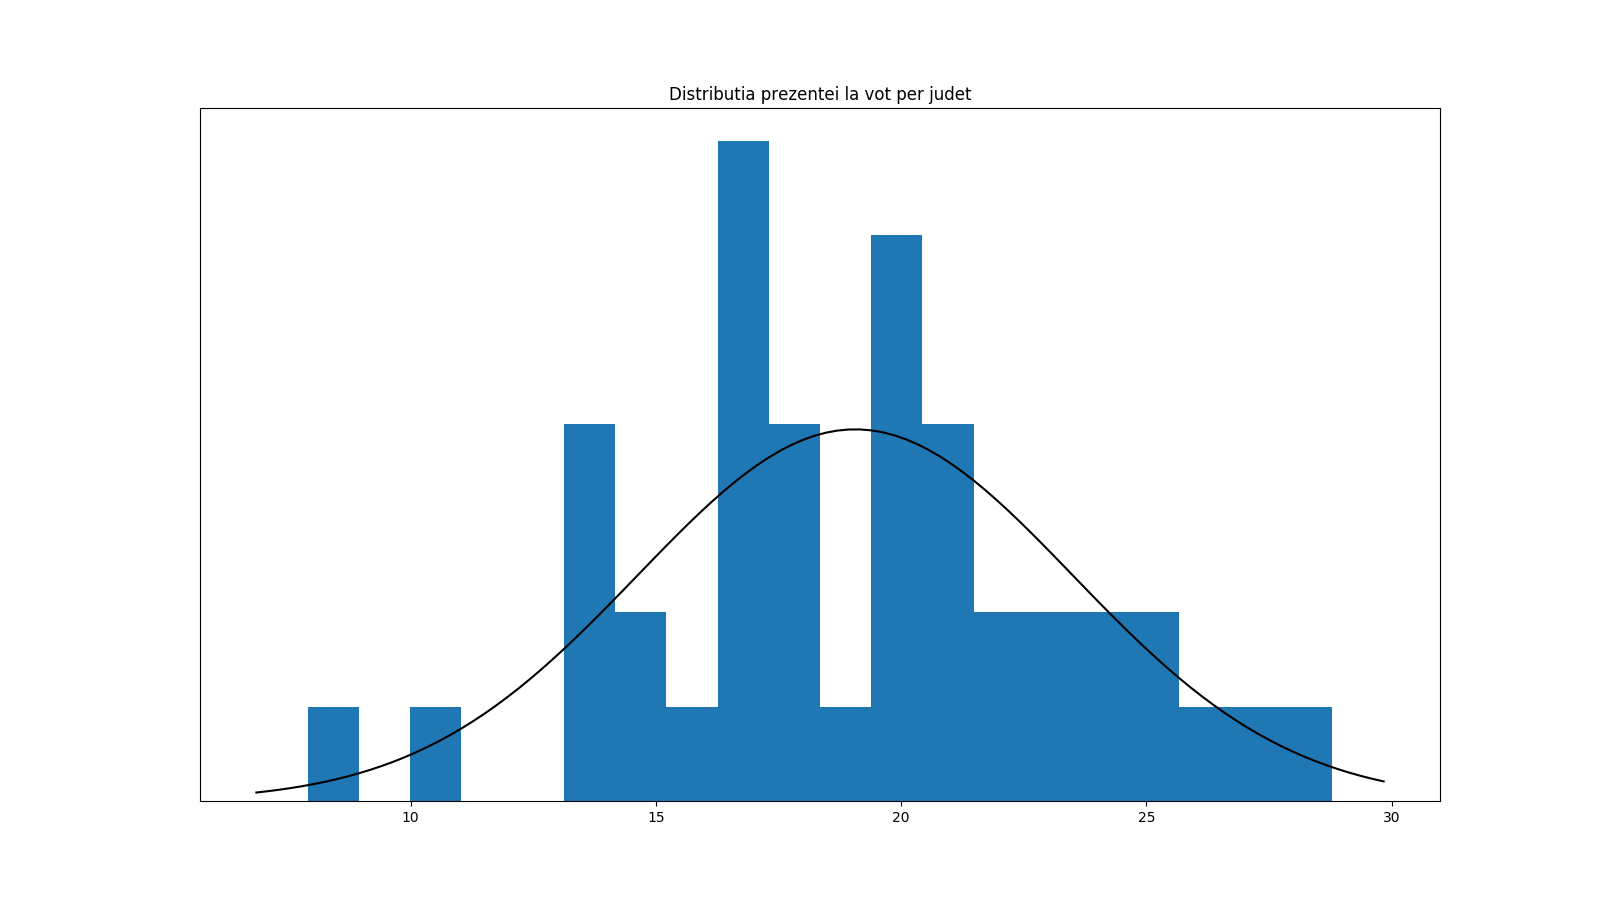
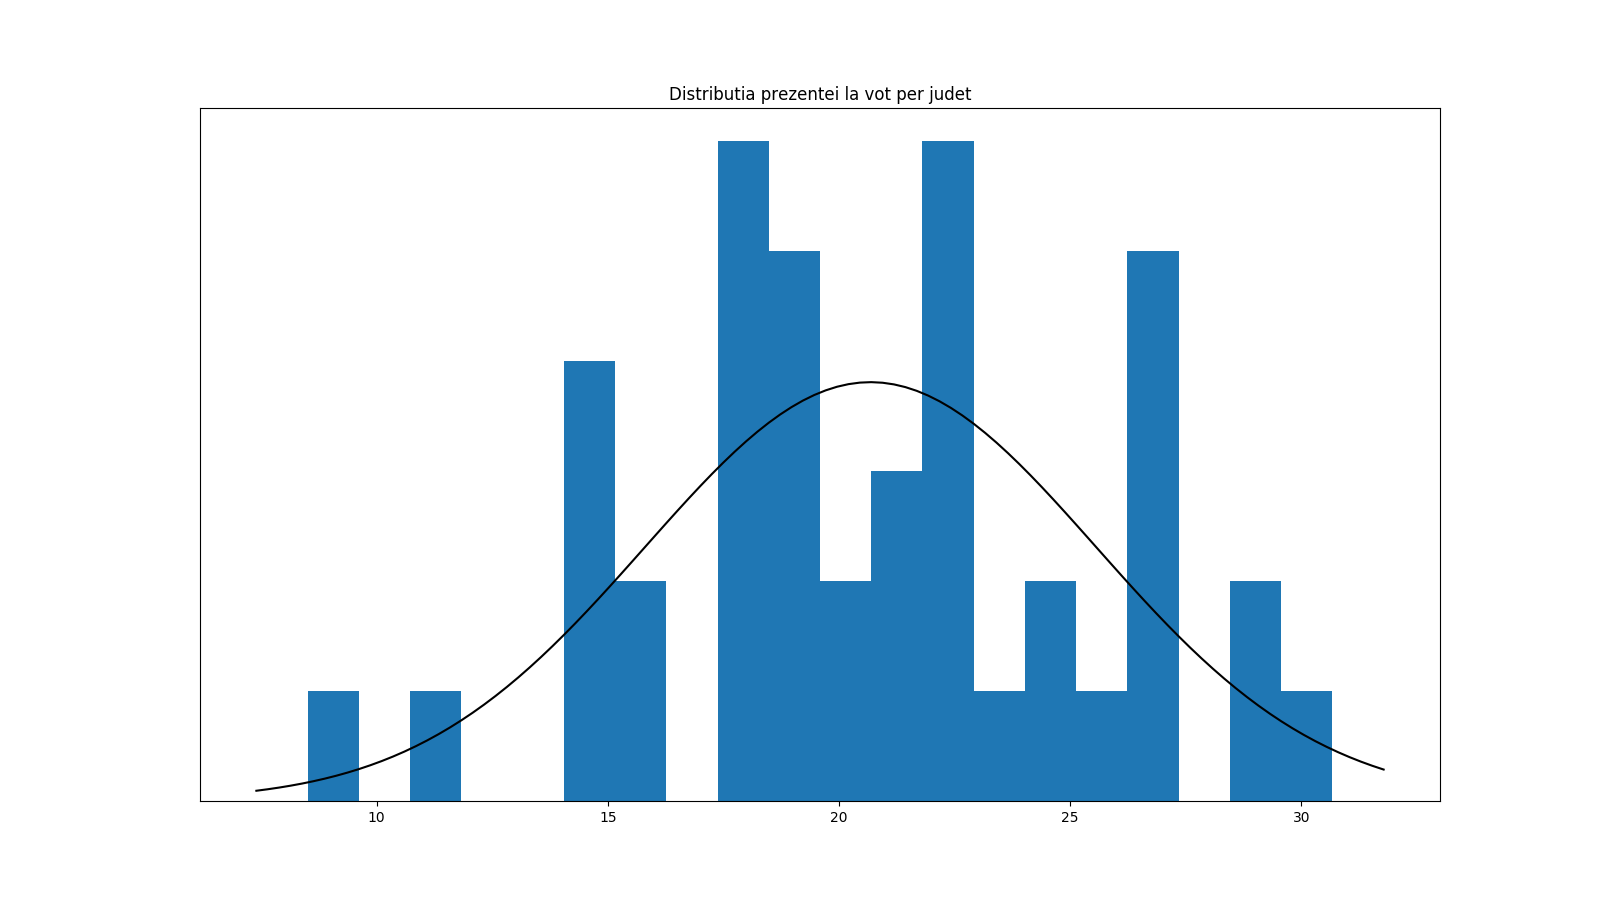
Latest

diff --git a/main.py b/main.py
@@ -6,7 +6,7 @@ import warnings
 warnings.filterwarnings("ignore")
 
 sectii = []
-with open('presence_RO_2018-10-07_19-00.csv') as csvfile:
+with open('presence_RO_2018-10-07_21-00.csv') as csvfile:
     records = csv.DictReader(csvfile)
     for sectie in records:
          sectii.append(sectie)
